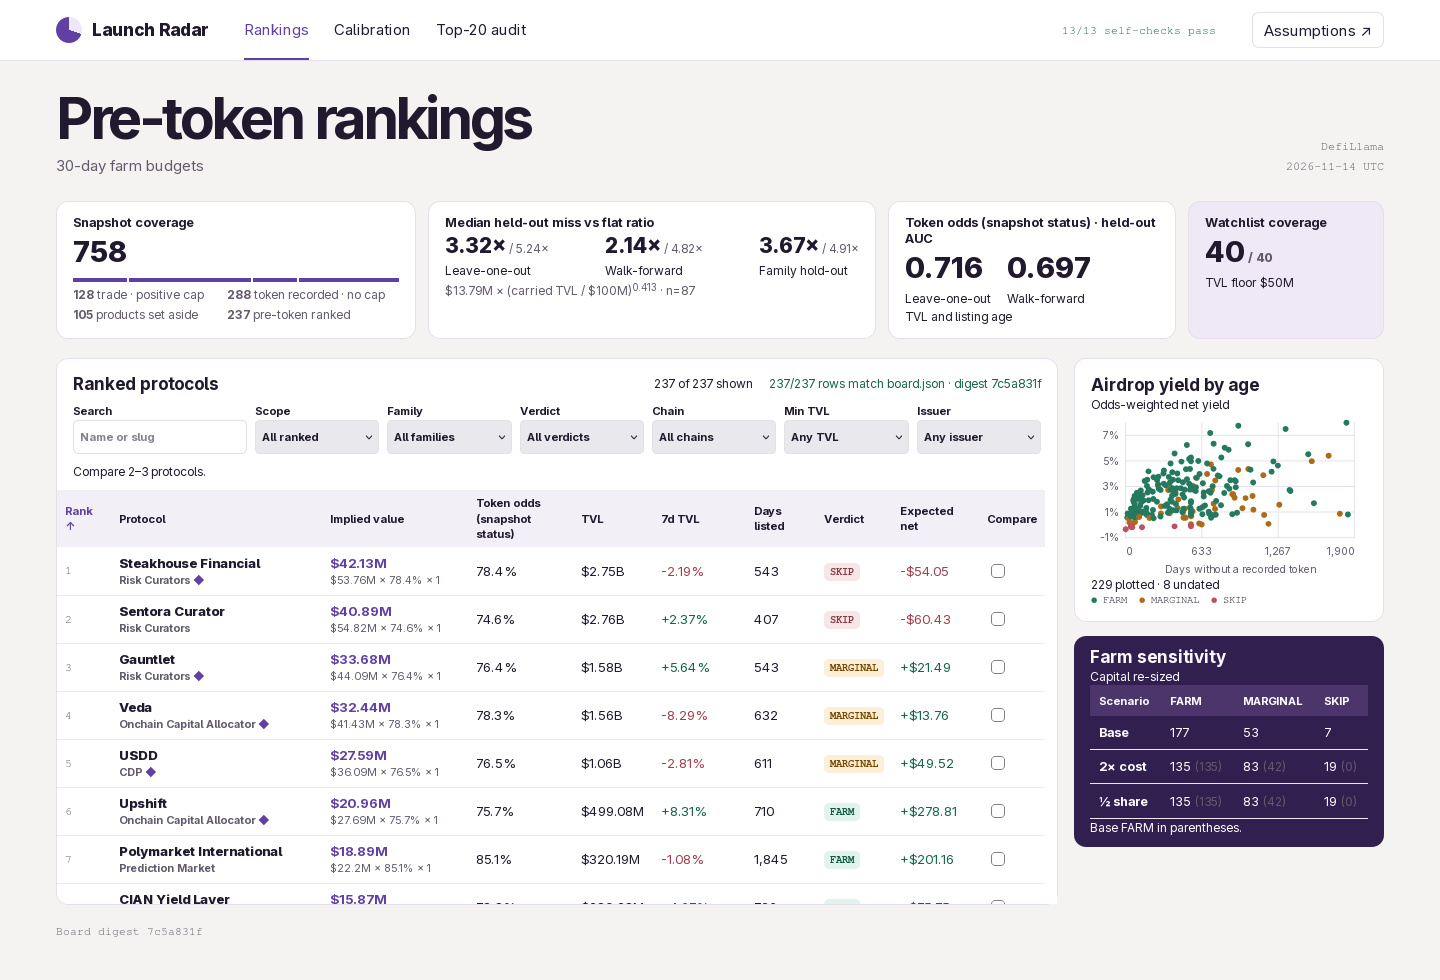
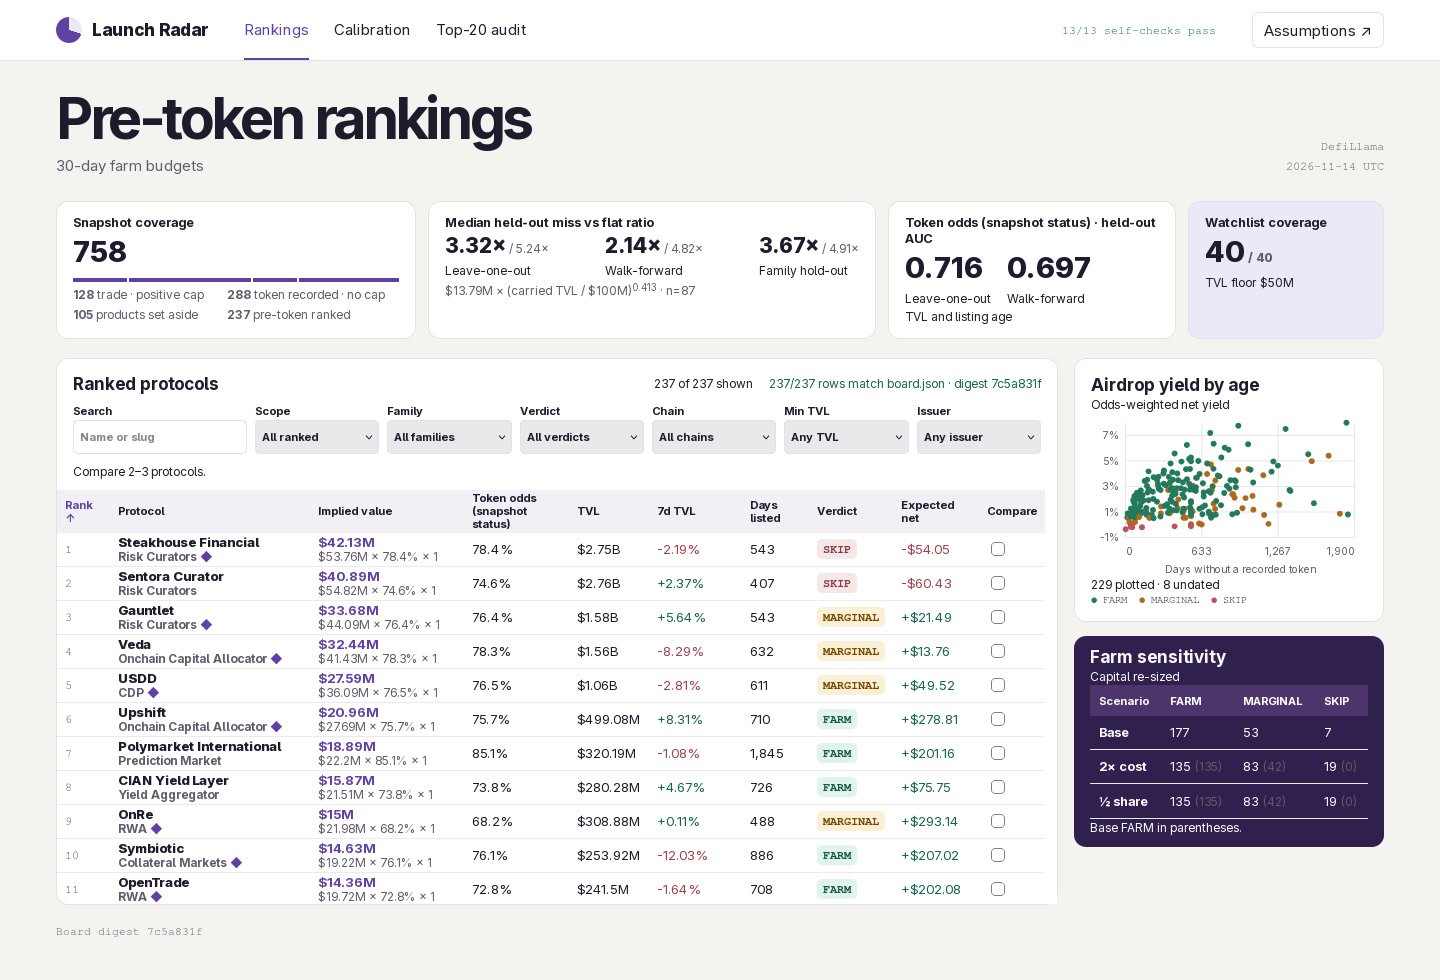
Denser rankings table

diff --git a/dashboard/style.css b/dashboard/style.css
@@ -71,15 +71,14 @@ small,dt,.curve,.attribution,.board-aside,.portfolio p,.valuation p,.compare-hin
 table{width:100%;border-collapse:collapse}
 th{text-align:left}
 thead{background:#f3eff6;font-size:.75rem}
-.rankings{min-width:880px;font-size:.88rem;line-height:1.4}
-.rankings tr{height:48px}
-.rankings :is(th,td){padding:5px 8px}
+.rankings{min-width:880px;font-size:.88rem;line-height:1.15}
+.rankings :is(th,td){padding:2px 8px}
 .rankings td,.stress-panel td{white-space:nowrap}
 .rankings th:nth-child(4){width:7rem}
 .compare-hint,.compare-panel{margin:0 16px 9px}
 tbody tr{border-bottom:1px solid #eee9f0}
 .protocol{font-weight:755}
-.rankings small{font-size:.73rem}
+.rankings :is(small,.rank,.badge){font-size:12px}
 .value b{color:var(--accent)}
 .positive{color:var(--green)}
 .negative{color:var(--red)}
